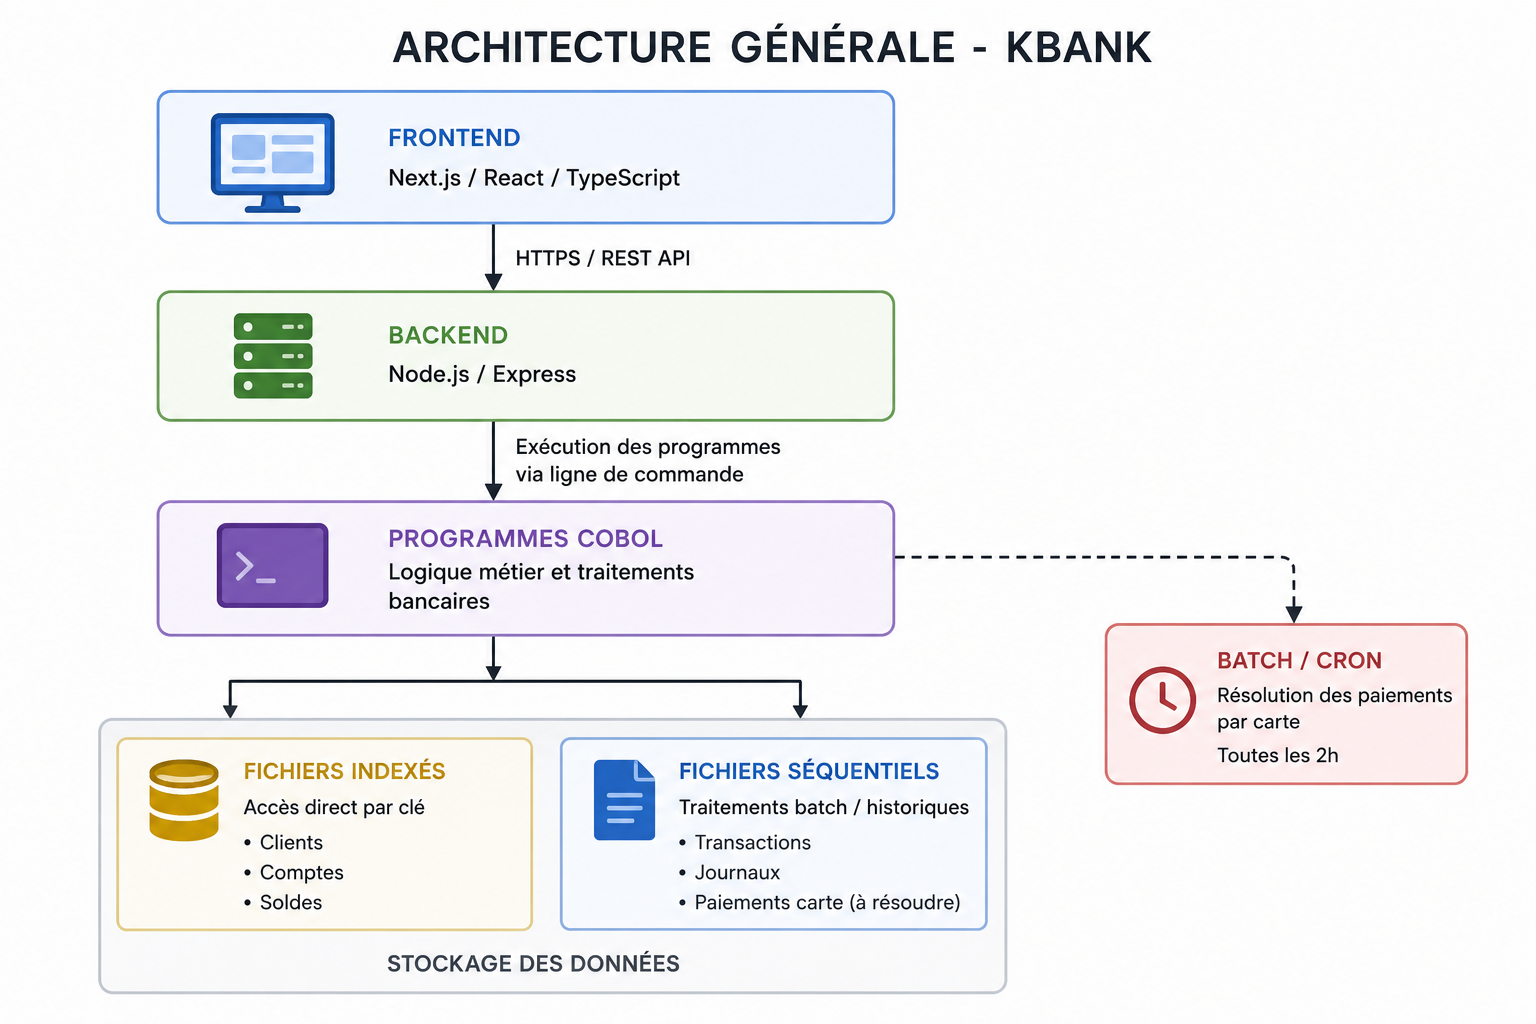
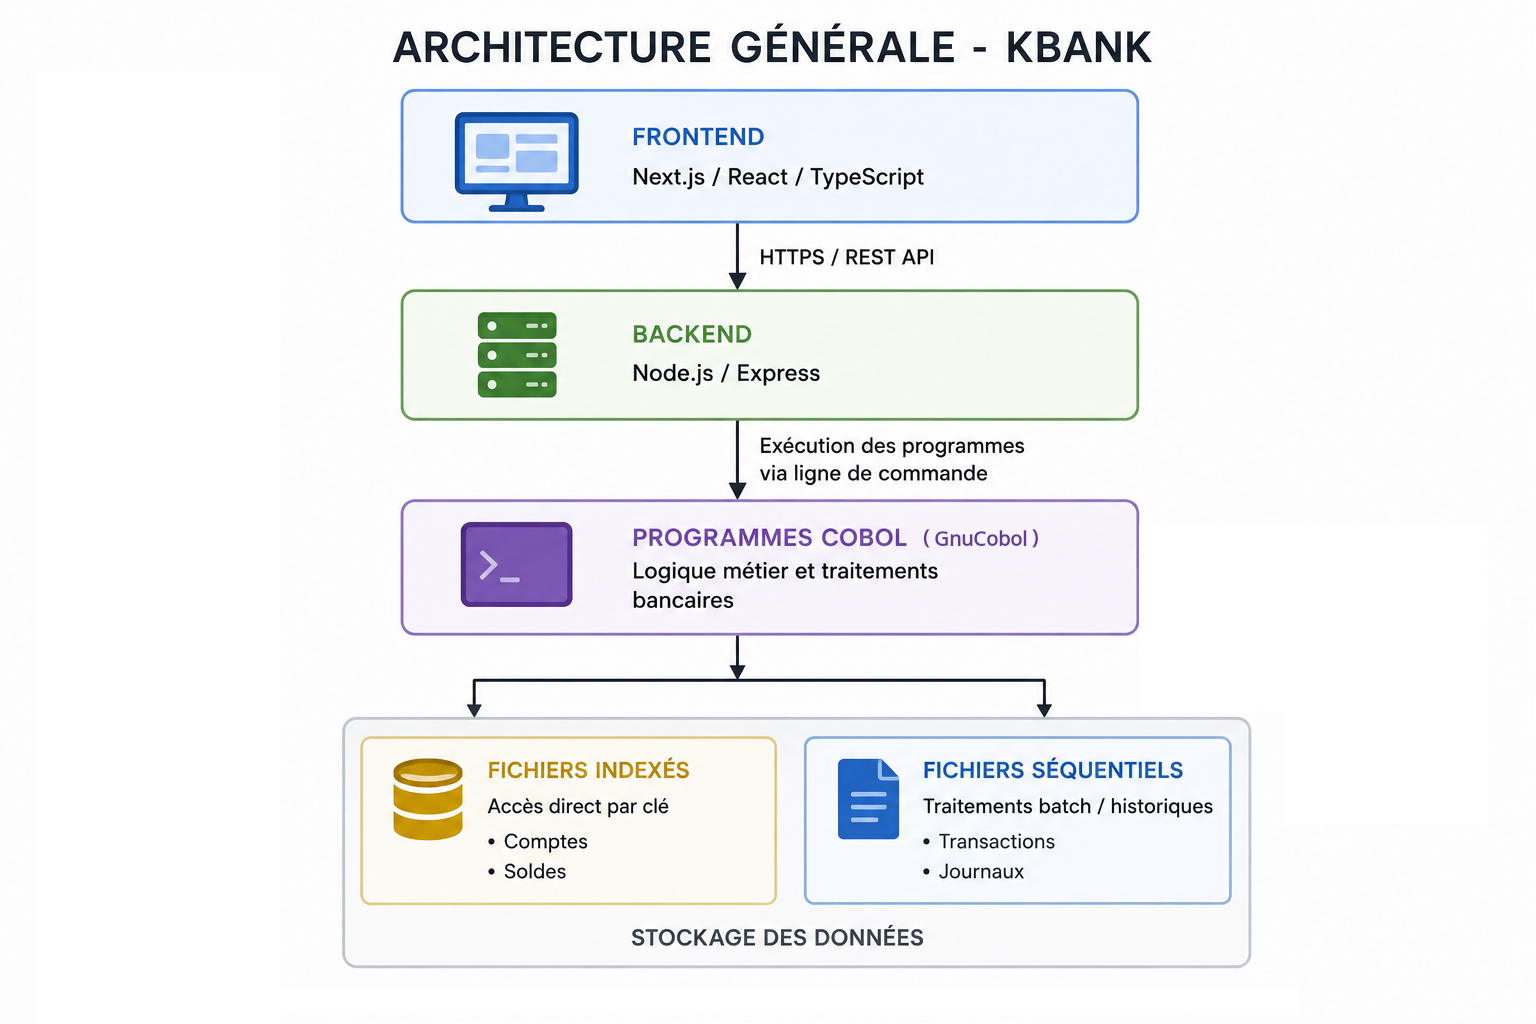
env fix, dropdown fix and others minor fixes

diff --git a/app/page.tsx b/app/page.tsx
@@ -1,4 +1,6 @@
+import { Button } from '@/components/ui/button'
 import Image from 'next/image'
+import Link from 'next/link'
 
 export default function Home() {
   return (
@@ -7,13 +9,22 @@ export default function Home() {
         {/* HEADER */}
         <section>
           <h1 className="text-4xl font-bold mb-4">
-            Kbank - Projet Bancaire COBOL
+            Kbank - Core Banking Architecture Showcase
           </h1>
+
           <p className="text-lg text-gray-600">
             Démonstrateur technique simulant un système bancaire minimaliste
             basé sur COBOL, fichiers indexés/séquentiels et une interface web
             moderne.
           </p>
+          <div className="flex justify-around my-7">
+            <Link href="https://github.com/Paskri/kbank-api">
+              <Button variant={'kbank'}>Code Backend</Button>
+            </Link>
+            <Link href="https://github.com/Paskri/kbank-front">
+              <Button variant={'kbank'}>Code Frontend</Button>
+            </Link>
+          </div>
         </section>
         <Image
           src="/architecture.png"
@@ -41,26 +52,15 @@ export default function Home() {
             </div>
 
             <div>
-              <h3 className="text-xl font-semibold mb-6">Backend</h3>
+              <h3 className="text-xl font-semibold mb-6">Backend (API)</h3>
               <ul className="list-disc pl-6 space-y-2">
                 <li>Node.js</li>
                 <li>Express</li>
-              </ul>
-            </div>
 
-            <div>
-              <h3 className="text-xl font-semibold mb-6">
-                Architecture & Exécution
-              </h3>
-              <ul className="list-disc pl-6 space-y-2">
-                <li>
-                  Backend exécuté dans un conteneur Docker basé sur l’image
-                  officielle node.js
-                </li>
-                <li>Déploiement en ligne du conteneur backend</li>
                 <li>Simulation mainframe via GnuCOBOL</li>
-                <li>Fichiers indexés ISAM</li>
                 <li>Programmes batch COBOL</li>
+                <li>Fichiers indexés ISAM</li>
+                <li>Fichiers sequentiels</li>
               </ul>
             </div>
           </div>
@@ -68,7 +68,7 @@ export default function Home() {
         {/* COMPETENCES */}
         <section>
           <h2 className="text-3xl font-semibold mb-6 w-full bg-blue-200 px-3 rounded-sm">
-            Compétences démontrées
+            Compétences mises en œuvre
           </h2>
 
           <div className="space-y-6">

diff --git a/components/accounts-dashboard.tsx b/components/accounts-dashboard.tsx
@@ -12,8 +12,9 @@ export default function ComptesClient() {
   const accounts = activeClient?.accounts
 
   const { cache } = useSWRConfig()
+  const NEXT_PUBLIC_API_HOST = process.env.NEXT_PUBLIC_API_HOST
   const clients = (
-    cache.get('https://kbank.api.krieg.fr/clients') as
+    cache.get(`${NEXT_PUBLIC_API_HOST}/clients`) as
       | { data: Client[] }
       | undefined
   )?.data
@@ -93,17 +94,10 @@ export default function ComptesClient() {
                     type = 'Virement'
 
                     /*** to ***/
-                    console.log('virement: ', transaction.reason)
                     const toWho = allAccounts.find(
                       (a) => a.accountId === transaction.to,
                     )
-                    console.log(
-                      toWho,
-                      formatNames(toWho?.ownerName ?? ''),
-                      formatNames(toWho?.ownerFirstName ?? ''),
-                    )
                     if (toWho?.ownerId === transaction.clientId) {
-                      console.log('cond 1')
                       if (
                         toWho?.accountType === 'CURRENT' &&
                         transaction.from === account.accountId
@@ -127,7 +121,6 @@ export default function ComptesClient() {
                       }
                     } else {
                       to = `pour le compte de ${formatNames(toWho?.ownerName ?? '')} ${formatNames(toWho?.ownerFirstName ?? '')}`
-                      console.log('cond 2', to)
                     }
 
                     break

diff --git a/components/transfer-form.tsx b/components/transfer-form.tsx
@@ -41,8 +41,10 @@ export default function TransferForm() {
   const [targetAcc, setTargetAcc] = useState<Account | undefined>(undefined)
 
   const { cache } = useSWRConfig()
+  const NEXT_PUBLIC_API_HOST = process.env.NEXT_PUBLIC_API_HOST
+
   const clients = (
-    cache.get('https://kbank.api.krieg.fr/clients') as
+    cache.get(`${NEXT_PUBLIC_API_HOST}/clients`) as
       | { data: Client[] }
       | undefined
   )?.data
@@ -84,7 +86,6 @@ export default function TransferForm() {
   })
 
   const onSubmit = async (values: FormValues) => {
-    
     const payload = {
       clientId: currentAcc?.ownerId,
       from: currentAcc?.accountId,
@@ -94,7 +95,7 @@ export default function TransferForm() {
     }
 
     console.log('Données envoyées: ', payload)
-    const res = await fetch('https://kbank.api.krieg.fr/transfer', {
+    const res = await fetch(`${NEXT_PUBLIC_API_HOST}/transfer`, {
       method: 'POST',
       headers: {
         'Content-Type': 'application/json',
@@ -126,13 +127,14 @@ export default function TransferForm() {
     }
 
     const data = await res.json()
+    console.log('Données reçues: ', data)
     toast.success('Virement effectué : ', {
       description: `Vous venez de virer ${values.amount} ${currentAcc?.accountCur} 
       ${to}.
       Le nouveau solde de votre compte est de ${parseInt(data.newBalance) / 100} $${currentAcc?.accountCur}`,
     })
 
-    const updatedClients = await mutate('https://kbank.api.krieg.fr/clients')
+    const updatedClients = await mutate(`${NEXT_PUBLIC_API_HOST}/clients`)
     const newActive = updatedClients.find(
       (c: Client) => c.id === activeClient?.id,
     )

diff --git a/components/cash-moves-form.tsx b/components/cash-moves-form.tsx
@@ -73,7 +73,8 @@ export default function CashOperationForm() {
       reason: values.reason,
     }
     console.log('Données envoyées: ', payload)
-    const res = await fetch('https://kbank.api.krieg.fr/cash-move', {
+    const NEXT_PUBLIC_API_HOST = process.env.NEXT_PUBLIC_API_HOST
+    const res = await fetch(`${NEXT_PUBLIC_API_HOST}/cash-move`, {
       method: 'POST',
       headers: {
         'Content-Type': 'application/json',
@@ -107,7 +108,7 @@ export default function CashOperationForm() {
     /*** Cobol errors handling ?? ***/
 
     /*** Updating Client datas and accounts ***/
-    const updatedClients = await mutate('https://kbank.api.krieg.fr/clients')
+    const updatedClients = await mutate(`${NEXT_PUBLIC_API_HOST}/clients`)
     const newActive = updatedClients.find(
       (c: Client) => c.id === activeClient?.id,
     )

diff --git a/components/expenses-form.tsx b/components/expenses-form.tsx
@@ -51,7 +51,8 @@ export default function ExpenseForm() {
       reason: values.label,
     }
     console.log('Données envoyées: ', payload)
-    const res = await fetch('https://kbank.api.krieg.fr/expense', {
+    const NEXT_PUBLIC_API_HOST = process.env.NEXT_PUBLIC_API_HOST
+    const res = await fetch(`${NEXT_PUBLIC_API_HOST}/expense`, {
       method: 'POST',
       headers: {
         'Content-Type': 'application/json',
@@ -85,7 +86,7 @@ export default function ExpenseForm() {
     })
 
     /*** Updating Client datas and accounts ***/
-    const updatedClients = await mutate('https://kbank.api.krieg.fr/clients')
+    const updatedClients = await mutate(`${NEXT_PUBLIC_API_HOST}/clients`)
     const newActive = updatedClients.find(
       (c: Client) => c.id === activeClient?.id,
     )

diff --git a/components/app-shell.tsx b/components/app-shell.tsx
@@ -8,12 +8,12 @@ import Image from 'next/image'
 const fetcher = (url: string) => fetch(url).then((res) => res.json())
 
 export default function AppShell({ children }: { children: React.ReactNode }) {
+  const NEXT_PUBLIC_API_HOST = process.env.NEXT_PUBLIC_API_HOST
   const {
     data: clients,
     error,
     isLoading,
-  } = useSWR<Client[]>('https://kbank.api.krieg.fr/clients', fetcher)
-
+  } = useSWR<Client[]>(`${NEXT_PUBLIC_API_HOST}/clients`, fetcher)
   return (
     <>
       <div className="flex flex-col items-center justify-center bg-zinc-50 font-sans ">

diff --git a/app/admin/comptes/page.tsx b/app/admin/comptes/page.tsx
@@ -17,8 +17,9 @@ import { Badge } from '@/components/ui/badge'
 
 export default function AllAccounts() {
   const { cache } = useSWRConfig()
+  const NEXT_PUBLIC_API_HOST = process.env.NEXT_PUBLIC_API_HOST
   const clients = (
-    cache.get('https://kbank.api.krieg.fr/clients') as
+    cache.get(`${NEXT_PUBLIC_API_HOST}/clients`) as
       | { data: Client[] }
       | undefined
   )?.data

diff --git a/app/admin/transactions/page.tsx b/app/admin/transactions/page.tsx
@@ -17,11 +17,12 @@ import useSWR from 'swr'
 const fetcher = (url: string) => fetch(url).then((res) => res.json())
 
 export default function AllTransactions() {
+  const NEXT_PUBLIC_API_HOST = process.env.NEXT_PUBLIC_API_HOST
   const {
     data: allTransactions,
     error,
     isLoading,
-  } = useSWR<Transaction[]>('https://kbank.api.krieg.fr/alltrans', fetcher, {
+  } = useSWR<Transaction[]>(`${NEXT_PUBLIC_API_HOST}/alltrans`, fetcher, {
     fallbackData: [],
   })
 

diff --git a/app/admin/utilisateurs/page.tsx b/app/admin/utilisateurs/page.tsx
@@ -15,9 +15,10 @@ import {
 import { Badge } from '@/components/ui/badge'
 
 export default function AllUsers() {
+  const NEXT_PUBLIC_API_HOST = process.env.NEXT_PUBLIC_API_HOST
   const { cache } = useSWRConfig()
   const clients = (
-    cache.get('https://kbank.api.krieg.fr/clients') as
+    cache.get(`${NEXT_PUBLIC_API_HOST}/clients`) as
       | { data: Client[] }
       | undefined
   )?.data

diff --git a/app/not-found.tsx b/app/not-found.tsx
@@ -8,7 +8,7 @@ export default function NotFound() {
       <h1 className="text-3xl font-bold">404 - Page introuvable</h1>
 
       <p className="text-gray-500 mt-5">
-        La page que tu recherches n’existe pas ou a été déplacée.
+        La page que vous recherchez n’existe pas ou a été déplacée.
       </p>
     </div>
   )

diff --git a/components/top-menu.tsx b/components/top-menu.tsx
@@ -90,7 +90,7 @@ export default function TopMenu({ clients }: Props) {
             <NavigationMenuItem>
               <DropdownMenu>
                 <DropdownMenuTrigger asChild>
-                  <button className={getMenuItemClass('/achat')}>Admin</button>
+                  <button className={getMenuItemClass('/admin')}>Admin</button>
                 </DropdownMenuTrigger>
 
                 <DropdownMenuContent align="start" className="w-fit">